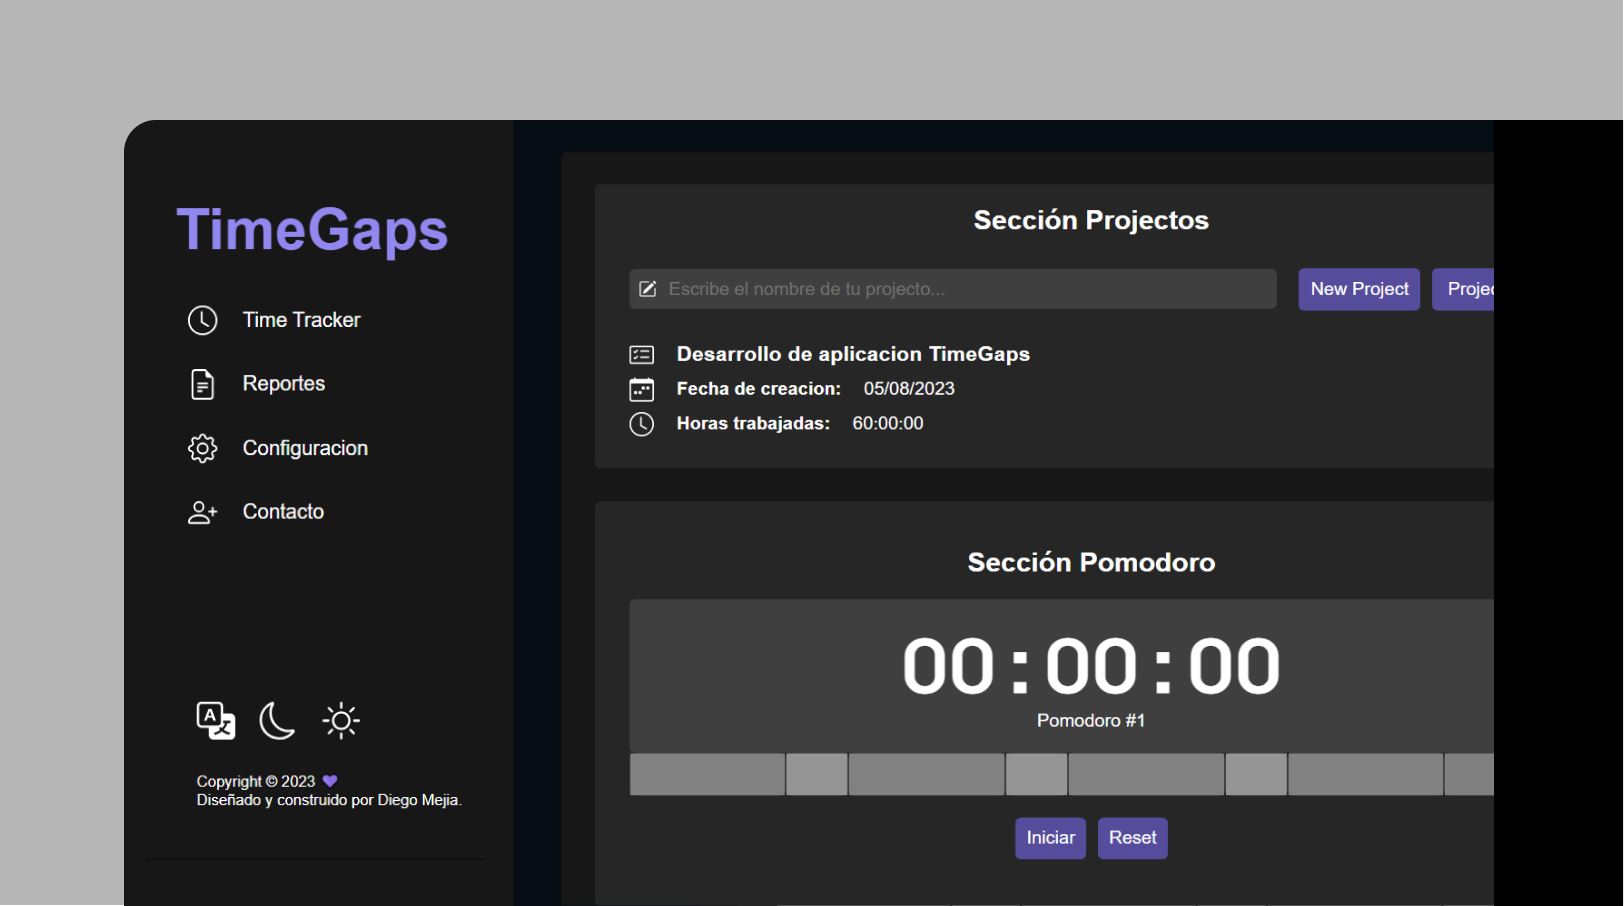
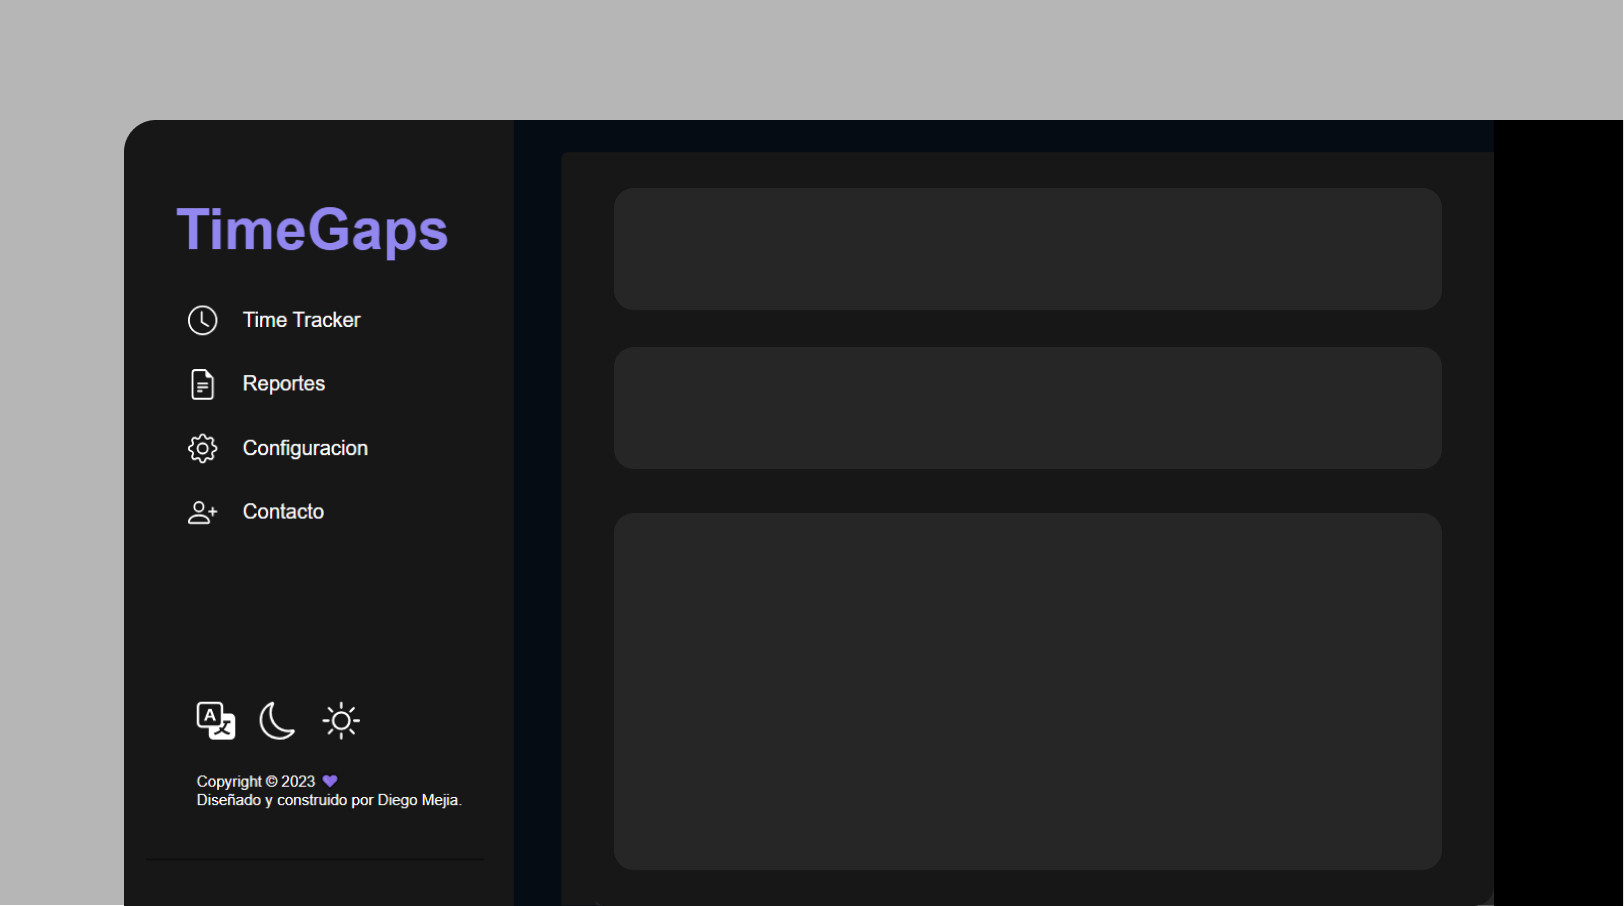
Ultimando detalles de las secciones, Home y Projectos.

Changed region(s): [[0.3695, 0.5872, 0.9236, 0.9581], [0.3695, 0.2163, 0.9236, 0.3709], [0.3695, 0.3709, 0.6466, 0.4945]]

diff --git a/index.html b/index.html
@@ -132,7 +132,7 @@
         <div class="info-presentacion-projectos">
           <h2>Proyectos Destacados. 🤙</h2>
           <p class="parrafo">
-            Explora algunos proyectos front-end donde convergen HTML5, CSS3 y JavaScript en creaciones cautivadoras. A
+            Explora algunos proyectos front-end donde convergen HTML5, CSS3 y JavaScript en creaciones cautivadoras. <br>A
             través de frameworks líderes como React y Vue, he dado vida a interfaces intuitivas y fluidas.
           </p>
         </div>
@@ -140,17 +140,19 @@
           <div class="project">
 
             <div class="img-project">
-              <img src="./assets/img/img-project-1.png" alt="Typography Project">
+              <img src="./assets/img/img-project-2.png" alt="Typography Project">
             </div>
             <div class="info-proyecto">
-              <h2>TimeGaps ⏲</h2>
-              <p>Una herramienta de gestión del tiempo que potencia tu productividad. Basada en la eficaz técnica
-                Pomodoro, esta aplicación te ayuda a optimizar tu enfoque y descanso. </p>
+              <h2>Réplica Visual Spotify 🎶</h2>
+              <p>
+                Sumérgete en la recreación visual de Spotify con el desarrollo de este clon en HTML y CSS. Adéntrate en
+                la experiencia estética de la plataforma.
+              </p>
               <div class="enlaces">
-                <a href="https://diego-marin.github.io/timeGaps/#timeTracker" class="link" target="_blank">
+                <a href="https://diego-marin.github.io/clon-spotify/" class="link" target="_blank">
                   <span class="text-to-underline">Enlace al proyecto</span> 🔗
                 </a>
-                <a href="https://github.com/Diego-Marin/timeGaps" class="link" target="_blank">
+                <a href="https://github.com/Diego-Marin/clon-spotify" class="link" target="_blank">
                   <span class="text-to-underline">Repositorio</span> 🔗
                 </a>
               </div>
@@ -171,19 +173,17 @@
           <div class="project">
 
             <div class="img-project">
-              <img src="./assets/img/img-project-2.png" alt="Typography Project">
+              <img src="./assets/img/img-project-1.png" alt="Typography Project">
             </div>
             <div class="info-proyecto">
-              <h2>Réplica Visual Spotify 🎶</h2>
-              <p>
-                Sumérgete en la recreación visual de Spotify con el desarrollo de este clon en HTML y CSS. Adéntrate en
-                la experiencia estética de la plataforma.
-              </p>
+              <h2>TimeGaps ⏲</h2>
+              <p>Una herramienta de gestión del tiempo que potencia tu productividad. Basada en la eficaz técnica
+                Pomodoro, esta aplicación te ayuda a optimizar tu enfoque y descanso. </p>
               <div class="enlaces">
-                <a href="https://diego-marin.github.io/clon-spotify/" class="link" target="_blank">
+                <a href="https://diego-marin.github.io/timeGaps/#timeTracker" class="link" target="_blank">
                   <span class="text-to-underline">Enlace al proyecto</span> 🔗
                 </a>
-                <a href="https://github.com/Diego-Marin/clon-spotify" class="link" target="_blank">
+                <a href="https://github.com/Diego-Marin/timeGaps" class="link" target="_blank">
                   <span class="text-to-underline">Repositorio</span> 🔗
                 </a>
               </div>

diff --git a/style.css b/style.css
@@ -343,7 +343,9 @@ header {
 .info-presentacion-projectos p {
   width: 100%;
   padding-top: 10px;
+  padding-right: 60px;
   font-size: 14px;
+  box-sizing: border-box;
 }
 
 .container-projects {
@@ -359,7 +361,8 @@ header {
   padding: 0 20px;
   overflow: auto;
   margin-top: 20px;
-  padding: 0 80px 20px 0;
+  padding: 33px 80px 20px 0;
+  background: #17191c;
 }
 
 /* Personaliza el scrollbar*/
@@ -392,11 +395,10 @@ header {
   min-height: 100px;
   display: flex;
   flex-direction: row;
-  border: 1.2px solid var(--colorLineas);
   border-radius: 10px;
   box-sizing: border-box;
   overflow: hidden;
-  background: var(--body-background-color);
+  background: #22252a;
 }
 
 .project:hover {
